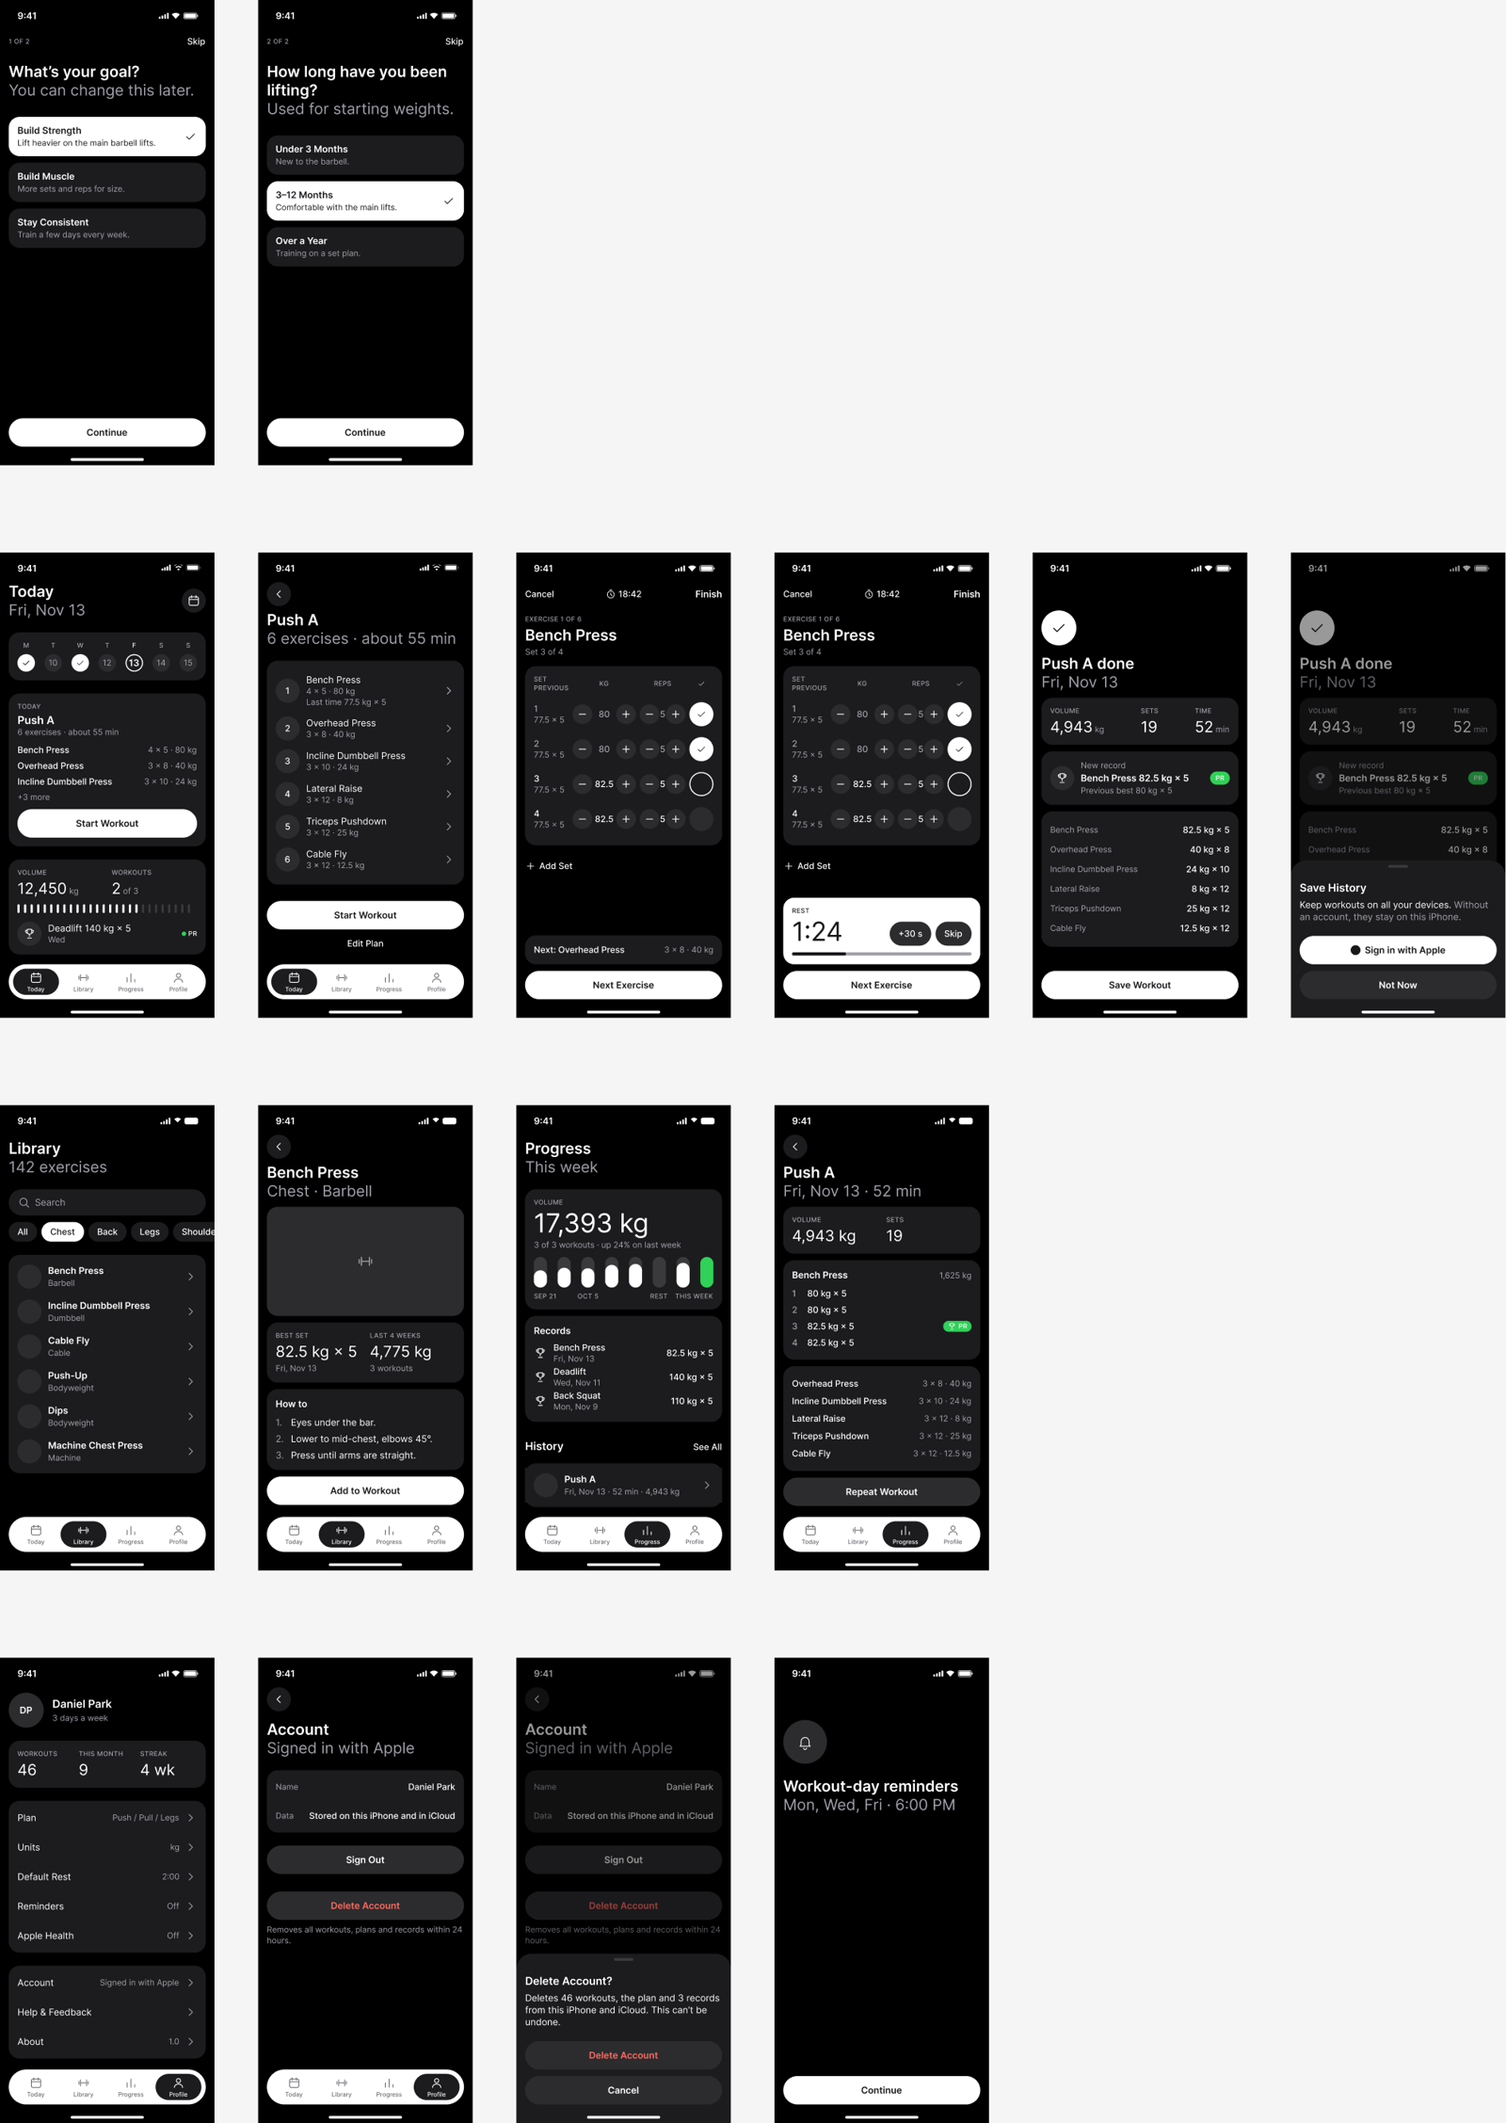
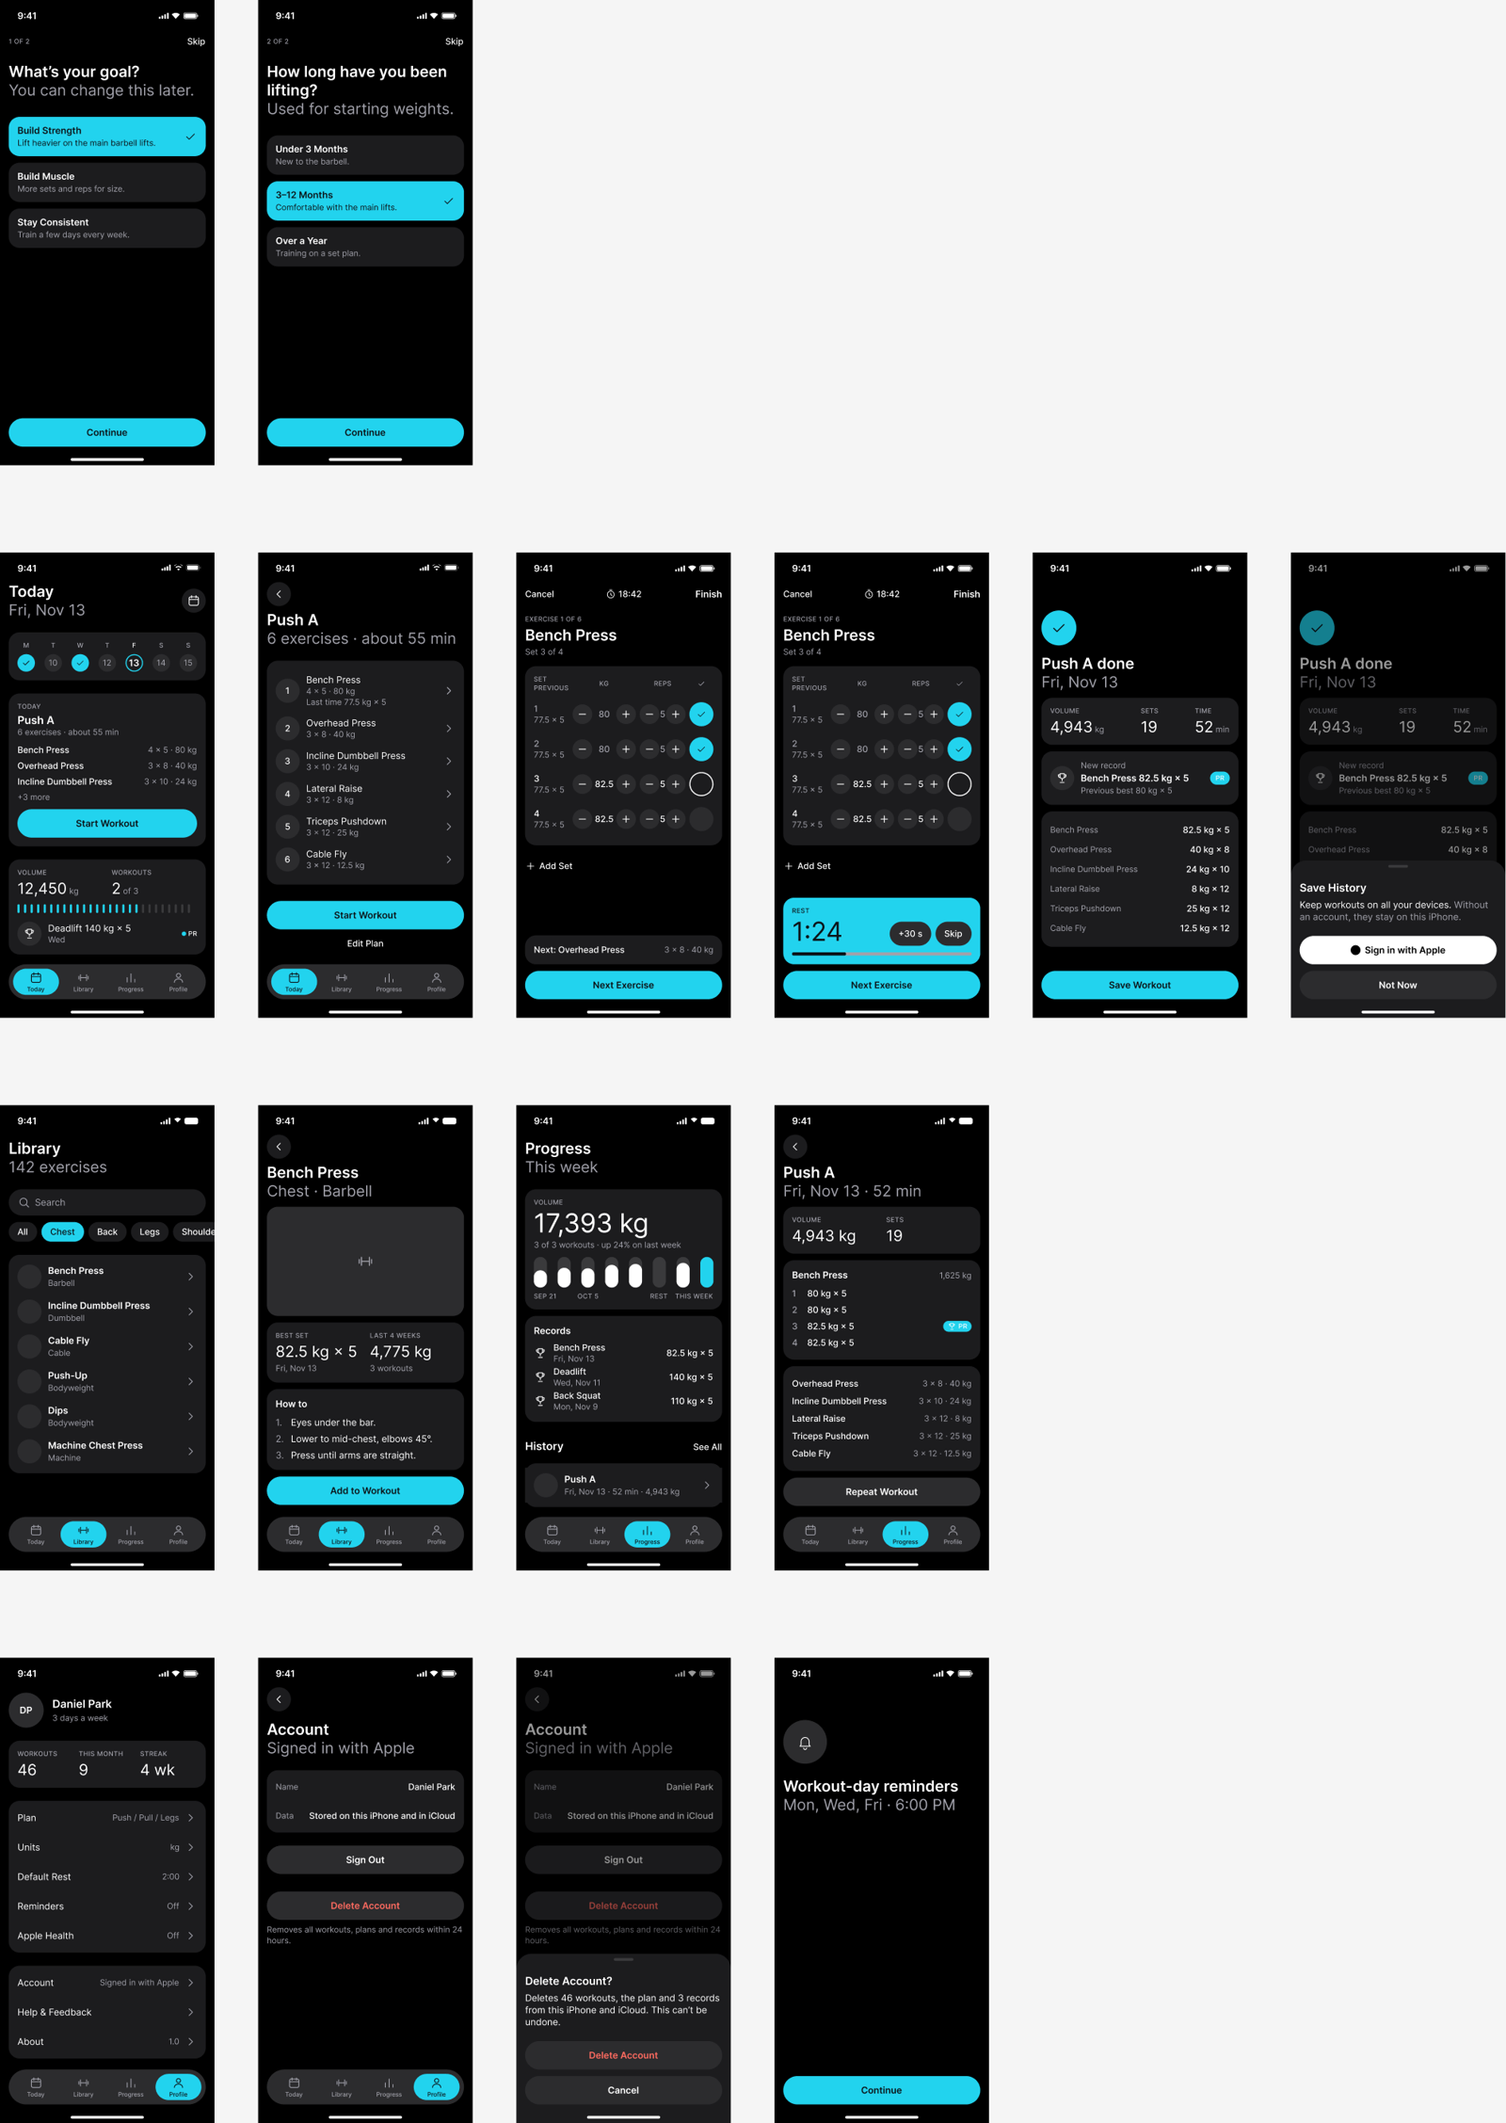
Demo v1.1: cyan accent instead of all-black UI
- Action and data highlight colour: cyan #22D3EE with near-black
  #0B1418 text (white on cyan is only 1.81:1)
- Tab bar on its own `nav` colour; selected tab is a cyan pill
- Sign in with Apple kept black / white; past weeks in the progress
  chart near-black so this week's cyan bar stands out
- DESIGN.md tokens, components and decision record #6 updated;
  audit note; README accent row and screenshots refreshed

diff --git a/examples/fitness-app/design/DESIGN.md b/examples/fitness-app/design/DESIGN.md
@@ -2,7 +2,7 @@
 
 **What this is:** the single design spec for Repwise, a strength-training log for gym-goers past their first month (see `00-brief.md`).
 **Based on:** 3 Behance references (§1.2) + user choices (Part 2) + Apple HIG (checked 2026-11-09) + Nielsen's 10 heuristics.
-**Version / date:** 1.0 · 2026-11-09 (Parts 1–3; rounds 2–3 decided by the AI on recommended options, see §16)
+**Version / date:** 1.1 · 2026-11-10 (cyan accent, see §16 #6); 1.0 · 2026-11-09 (Parts 1–3; rounds 2–3 decided by the AI on recommended options, see §16)
 
 Source tags: [Spec] author's style guide · [Measured ≈] grid measurement · [Observed] pattern seen · [HIG] · [Nielsen] · [User choice] · [AI suggestion]
 
@@ -93,7 +93,7 @@ Search `fitness app` on Behance; top 15 of Most Appreciated (`sort=appreciations
 | 1 / Q3 | Side margins | A | 16 pt | [User choice · 1/Q3] [Spec · Femotion img 12] [Measured · Femotion 17.png, NutriPal 04.png] |
 | 1 / Q4 | Background layers | A | #F8F8F8 base + #FFFFFF cards, no shadow | [User choice · 1/Q4] [Measured · Femotion 17.png] |
 | 1 / Q5 | Light / dark | A (recommended) | Light first; dark mode values defined, drawn at hi-fi | [User delegated: "just do a version"] [HIG · Color] |
-| 2 / Q6 | Accent | C (recommended) | No UI accent; near-black #18181B for actions; colour only for data | [User delegated] [Spec · NutriPal img 15] |
+| 2 / Q6 | Accent | **custom (changed after review)** | Cyan #22D3EE for actions, selected states and data highlights, with near-black #0B1418 text on it; the tab bar stays near-black | [User choice · "make it more vivid, e.g. cyan; pure black doesn't look good"] [Spec · Femotion img 13–14: bright fill + dark text] |
 | 2 / Q7 | Typeface | B (recommended) | Inter (Lufga is a paid "Premium Font") | [User delegated] [Spec · LGrow img 04] [Spec · NutriPal img 16] |
 | 2 / Q8 | Type scale | C + B (recommended) | iOS default sizes; NutriPal two-line page title with a darker grey | [User delegated] [HIG · Typography] [Measured · NutriPal 04.png] |
 | 2 / Q9 | Big numbers | B (recommended) | Regular numbers with a small all-caps label above | [User delegated] [Observed · NutriPal img 04] |
@@ -112,11 +112,11 @@ Priority when rules conflict: accessibility [HIG] > other [HIG] > user choices >
 
 ## 1. Core principles
 1. **Numbers are the hero.** Every screen has one large number or title; weights, reps and time are what people came for. [Observed · NutriPal img 04] [AI suggestion]
-2. **Monochrome UI, colour only for data.** Actions are near-black; green appears only in charts and PR markers, always with a label. [User choice · 2/Q6] [HIG · Color]
+2. **Neutral UI, one cyan accent.** Cyan #22D3EE marks what you can do (primary button, selected chip, selected tab, done sets) and the one data highlight on a screen (this week's bar, PR marker). Text on cyan is near-black. Everything else stays neutral. [User choice · 2/Q6] [HIG · Color]
 3. **Layer by fill.** #F8F8F8 base, #FFFFFF cards, no shadows, no borders. [User choice · 1/Q4]
 4. **One pill shape and one card radius (20).** [User choice · 2/Q10] [anti-ai-checklist §1]
 5. **Selected = filled near-black; unselected = white, no outline.** [anti-ai-checklist §1]
-6. **Two text colours only.** #18181B and #6B6B70. [anti-ai-checklist §1] [HIG · Accessibility]
+6. **Two text colours only.** #18181B and #6B6B70 (plus on-action #0B1418 on cyan). [anti-ai-checklist §1] [HIG · Accessibility]
 7. **Real, consistent sample data.** Kilograms, realistic lifts, totals that add up. [anti-ai-checklist §4]
 
 ## 2. Layout and grid
@@ -155,10 +155,11 @@ Minimum 11 pt. [HIG · Accessibility] Sizes from the iOS default scale. [HIG · 
 | surface-muted | #EFEFF1 | #2C2C2E | segmented track, empty slots, image placeholders | — |
 | text/primary | #18181B | #FFFFFF | titles, values, body | 16.7:1 on bg |
 | text/secondary | #6B6B70 | #A1A1AA | labels, captions | 4.99:1 on bg, 5.30:1 on surface, 4.62:1 on surface-muted |
-| action | #18181B | #FFFFFF | primary button, selected chip, tab bar | white on it 17.7:1 |
-| on-action | #FFFFFF | #18181B | text on action | — |
-| tab-unselected | #A1A1AA | #6B6B70 | unselected tab icon + label (the bar is action-coloured: dark in Light, white in Dark) | 6.91:1 on #18181B; 5.30:1 on #FFFFFF |
-| data/positive | #24DA4D | #30D158 | chart fills, PR marker (never text) | graphics only |
+| action | #22D3EE | #22D3EE | primary button, selected chip, selected tab, done set, rest card | on-action 10.31:1 on it |
+| on-action | #0B1418 | #0B1418 | text and icons on action (white on cyan is only 1.81:1) | 10.31:1 |
+| nav | #18181B | #2C2C2E | floating tab bar | — |
+| tab-unselected | #A1A1AA | #A1A1AA | unselected tab icon + label on nav | 6.91:1 on #18181B; 5.44:1 on #2C2C2E |
+| data/positive | #22D3EE | #22D3EE | this week's bar, PR marker (never text on white) | graphics only |
 | data/track | #E4E4E7 | #3A3A3C | chart remaining ticks | — |
 | destructive | #D92D20 | #FF6B60 | delete, discard | 4.83:1 on surface |
 Contrast computed with `scripts/contrast.py`. Dark values are [AI suggestion], drawn at hi-fi. [HIG · Color]
@@ -171,7 +172,7 @@ Contrast computed with `scripts/contrast.py`. Dark values are [AI suggestion], d
 ## 6. Components
 | Component | Spec | Source |
 |---|---|---|
-| Primary button | 52 high, full width, pill, action fill, on-action text 17 Semibold; loading shows "Saving…" inside | [AI suggestion] [Measured · Femotion ~50, LGrow ~50] [HIG · Buttons] |
+| Primary button | 52 high, full width, pill, cyan action fill, near-black on-action text 17 Semibold; loading shows "Saving…" inside | [AI suggestion] [Measured · Femotion ~50, LGrow ~50] [HIG · Buttons] |
 | Secondary button | 52 high, pill, surface-muted fill (surface on bg), text/primary | [AI suggestion] |
 | Destructive button | secondary shape, destructive text; never the primary | [HIG · Buttons] |
 | Icon button | 44 circle, surface fill, 24 icon, 1.5 stroke | [HIG · Accessibility] [Observed · NutriPal img 04] |
@@ -182,8 +183,9 @@ Contrast computed with `scripts/contrast.py`. Dark values are [AI suggestion], d
 | List row | 64 high; 44 circle thumbnail; title 17 + subtitle 15 secondary; chevron | [AI suggestion] |
 | Info row | label left (15 secondary) / value right (16 Medium) | [Observed · example-design-rules §6.4] |
 | Card | surface, radius 20, padding 16 | [User choice] |
-| Tab Bar | floating pill 64 high, 16 from the sides, action fill; 4 tabs with icon + label; selected tab = white pill with dark icon + label | [Observed · NutriPal img 04] [HIG · Tab bars] (labels on every tab) |
+| Tab Bar | floating pill 64 high, 16 from the sides, nav fill; 4 tabs with icon + label; selected tab = cyan (action) pill with on-action icon + label | [Observed · NutriPal img 04] [HIG · Tab bars] (labels on every tab) |
 | Sheet | surface, top radius 28, grabber, Cancel / Done | [HIG · Sheets] |
+| Sign in with Apple | black in Light, white in Dark (text/primary fill, bg label); never the cyan accent | [HIG · Sign in with Apple] |
 | Live rest card | action fill card radius 20; "REST" label, 48 countdown, determinate bar; Skip / +30 s | [HIG · Live Activities] [HIG · Progress indicators] |
 | Week strip | 7 days; trained = filled circle, planned = ring, today = label emphasised | [AI suggestion] [example-design-rules §6.8] |
 | Volume ticks | vertical ticks 4 wide, 8 gap; done = action, remaining = data/track | [Observed · NutriPal img 04] |
@@ -197,7 +199,7 @@ Week strip  M T W T F S S
 Workout card: PUSH DAY A · 6 exercises · about 55 min
               exercise preview list (3)  [ Start Workout ]
 This week card: VOLUME 12,450 kg · SESSIONS 2 of 3 · volume ticks
-Latest PR row: Bench Press 82.5 kg × 5  (green marker + "PR" label)
+Latest PR row: Deadlift 140 kg × 5  (cyan marker + "PR" label)
 Floating tab bar: Today · Library · Progress · Profile
 ```
 Active Workout (modal, tab bar hidden): top bar Cancel · elapsed time · Finish; exercise title; set rows; rest card appears after a set is ticked.
@@ -242,7 +244,7 @@ Tap targets ≥ 44; text ≥ 11; contrast per §4; PRs marked with label + icon,
 - No "Welcome back, Alex! 👋" → title is the day and date.
 - No fake charts → volume ticks from the sample data, totals that add up.
 - No cards in cards → set rows sit directly in the exercise card.
-- Accent appears at most once per screen (green PR marker or chart).
+- Cyan only where you can act or on the one data highlight; never as a background wash, never with a gradient.
 
 ## 13. Quick reference (Figma variables)
 | Item | Value | Variable |
@@ -259,7 +261,7 @@ Tap targets ≥ 44; text ≥ 11; contrast per §4; PRs marked with label + icon,
 - [ ] One hero; one leading edge at 16
 - [ ] Only Inter Regular / Medium / Semibold; nothing under 11 pt
 - [ ] Text colours only text/primary and text/secondary
-- [ ] Accent (green) at most once, always with a label
+- [ ] Cyan only on actions, selected states and at most one data highlight (with a text label); text on cyan is on-action
 - [ ] All tap targets ≥ 44; ≤ 1 primary button
 - [ ] Pill or radius 20 only; no shadow, no border
 - [ ] Tab bar visible except in modal flows
@@ -282,6 +284,7 @@ Tap targets ≥ 44; text ≥ 11; contrast per §4; PRs marked with label + icon,
 | 3 | Custom floating dark tab bar instead of the system Liquid Glass bar | Matches the chosen reference; keeps labels on every tab to stay within HIG | [HIG · Tab bars] [Observed · NutriPal] | 2026-11-09 |
 | 4 | Inter instead of Lufga | Lufga is a paid font | [Spec · NutriPal img 16] | 2026-11-09 |
 | 5 | Designed directly in high fidelity: Light pages per flow + a Dark copy of every screen; exercise images are named placeholders | The skill delivers hi-fi only; no licensed exercise images exist yet | [User · chat: "just do hi-fi"] [HIG · Color] | 2026-11-09 |
+| 6 | Accent changed from near-black to cyan #22D3EE; tab bar moved to its own `nav` colour; Sign in with Apple kept black / white; past weeks in the progress chart near-black so this week (cyan) stands out | User found the all-black UI unattractive and asked for a more vivid colour such as cyan; white text fails on cyan, so text on it is near-black | [User · chat 2026-11-10] [HIG · Color] [HIG · Accessibility] | 2026-11-10 |
 
 ---
 

diff --git a/examples/fitness-app/design/audit.md b/examples/fitness-app/design/audit.md
@@ -1,12 +1,12 @@
 # Walkthrough audit: Repwise v1.0
 
-**Date:** 2026-11-09 · **Scope:** 18 hi-fi screens (16 app screens in Light and Dark, 2 system presentations) · **Spec:** `DESIGN.md`
+**Date:** 2026-11-09, colour update 2026-11-10 · **Scope:** 18 hi-fi screens (16 app screens in Light and Dark, 2 system presentations) · **Spec:** `DESIGN.md`
 **Method:** each main task walked end to end against Nielsen's 10 heuristics; the whole app checked against `apple-hig-rules.md` §15 (including the new §14a Writing) and `anti-ai-checklist.md` §5. Contrast computed with `scripts/contrast.py`. Severity uses Nielsen's 0–4 scale.
 
 ## Already complies
 
 - **One hero per screen**, one leading edge at 16, content inside the safe area, tab bar hidden in modal flows. [HIG · Layout] [HIG · Tab bars]
-- **Colour only for data:** green appears once per screen at most (PR marker or this week's bar), always with the text "PR" or "THIS WEEK". [HIG · Color] [HIG · Accessibility]
+- **One accent:** cyan #22D3EE (since v1.1; green before) only on actions, selected states and one data highlight per screen, always with the text "PR" or "THIS WEEK"; text on cyan is near-black (10.31:1). [HIG · Color] [HIG · Accessibility]
 - **Contrast:** text/primary 16.7:1 and text/secondary 4.99:1 on the Light base; white 21:1 and #A1A1AA 8.19:1 on the Dark base; destructive 4.83:1 (Light) and 4.99:1 (Dark). [HIG · Accessibility]
 - **Account rules:** sign-in only when saving the first workout, with Sign in with Apple and a "Not Now" that keeps data on the iPhone; Delete Account is easy to find, never the primary style, states what is removed and when. [HIG · Managing accounts] [HIG · Buttons]
 - **Permission:** reminders explainer has exactly one "Continue" button and appears when the user turns reminders on. [HIG · Privacy]
@@ -79,3 +79,6 @@
 5. Radii: pill + 20 (+ 28 on sheets); greys for text: 2; weights: 3.
 6. Numbers agree across screens: yes (see above).
 7. Generic copy: none found after the writing pass.
+
+## Colour update (2026-11-10)
+The user asked for a more vivid colour instead of the all-black UI. Cyan #22D3EE replaced near-black as the action colour and green as the data colour. Checked again after the change: white text on cyan fails (1.81:1), so on-action is near-black #0B1418 (10.31:1); the tab bar got its own `nav` colour so it does not turn cyan; Sign in with Apple was rebound to black / white; past weeks in the progress chart are near-black so this week's cyan bar stands out. Dark mode re-checked on all 16 copies.

diff --git a/README.md b/README.md
@@ -210,7 +210,7 @@ If that project is a git repository, add `design/research/*/` to its `.gitignore
 | Overall style | C | Off-white base, monochrome UI, colour only for data |
 | Side margins | A | 16 pt (Femotion's style guide, confirmed by measurement in A and C) |
 | Background layers | A | `#F8F8F8` base + `#FFFFFF` cards, no shadow |
-| Accent | recommended | No UI accent; near-black `#18181B` for actions; green only in charts and PR markers |
+| Accent | recommended, then changed | First near-black `#18181B`; after review the user asked for something more vivid, so actions and the one data highlight became cyan `#22D3EE` with near-black text on it (white on cyan fails at 1.81:1) |
 | Typeface | recommended | Inter (C's Lufga is a paid font) |
 | Card radius | recommended | 20 (measured on C) |
 

diff --git a/README.zh-CN.md b/README.zh-CN.md
@@ -210,7 +210,7 @@ design/
 | 整体风格 | C | 米白底，单色界面，颜色只用于数据 |
 | 左右边距 | A | 16 pt（来自 Femotion 设计规范，A、C 的测量也印证） |
 | 背景层次 | A | `#F8F8F8` 底 + `#FFFFFF` 卡片，无阴影 |
-| 强调色 | 推荐 | 界面不用强调色；操作用近黑 `#18181B`；绿色只出现在图表和 PR 标记 |
+| 强调色 | 先按推荐，后改 | 起初用近黑 `#18181B`；看过成品后用户希望更鲜艳，改为青色 `#22D3EE`，用于操作和每屏一处数据重点，青色上的文字用近黑（白字只有 1.81:1，不达标） |
 | 字体 | 推荐 | Inter（C 用的 Lufga 是付费字体） |
 | 卡片圆角 | 推荐 | 20（在 C 上测得） |
 
